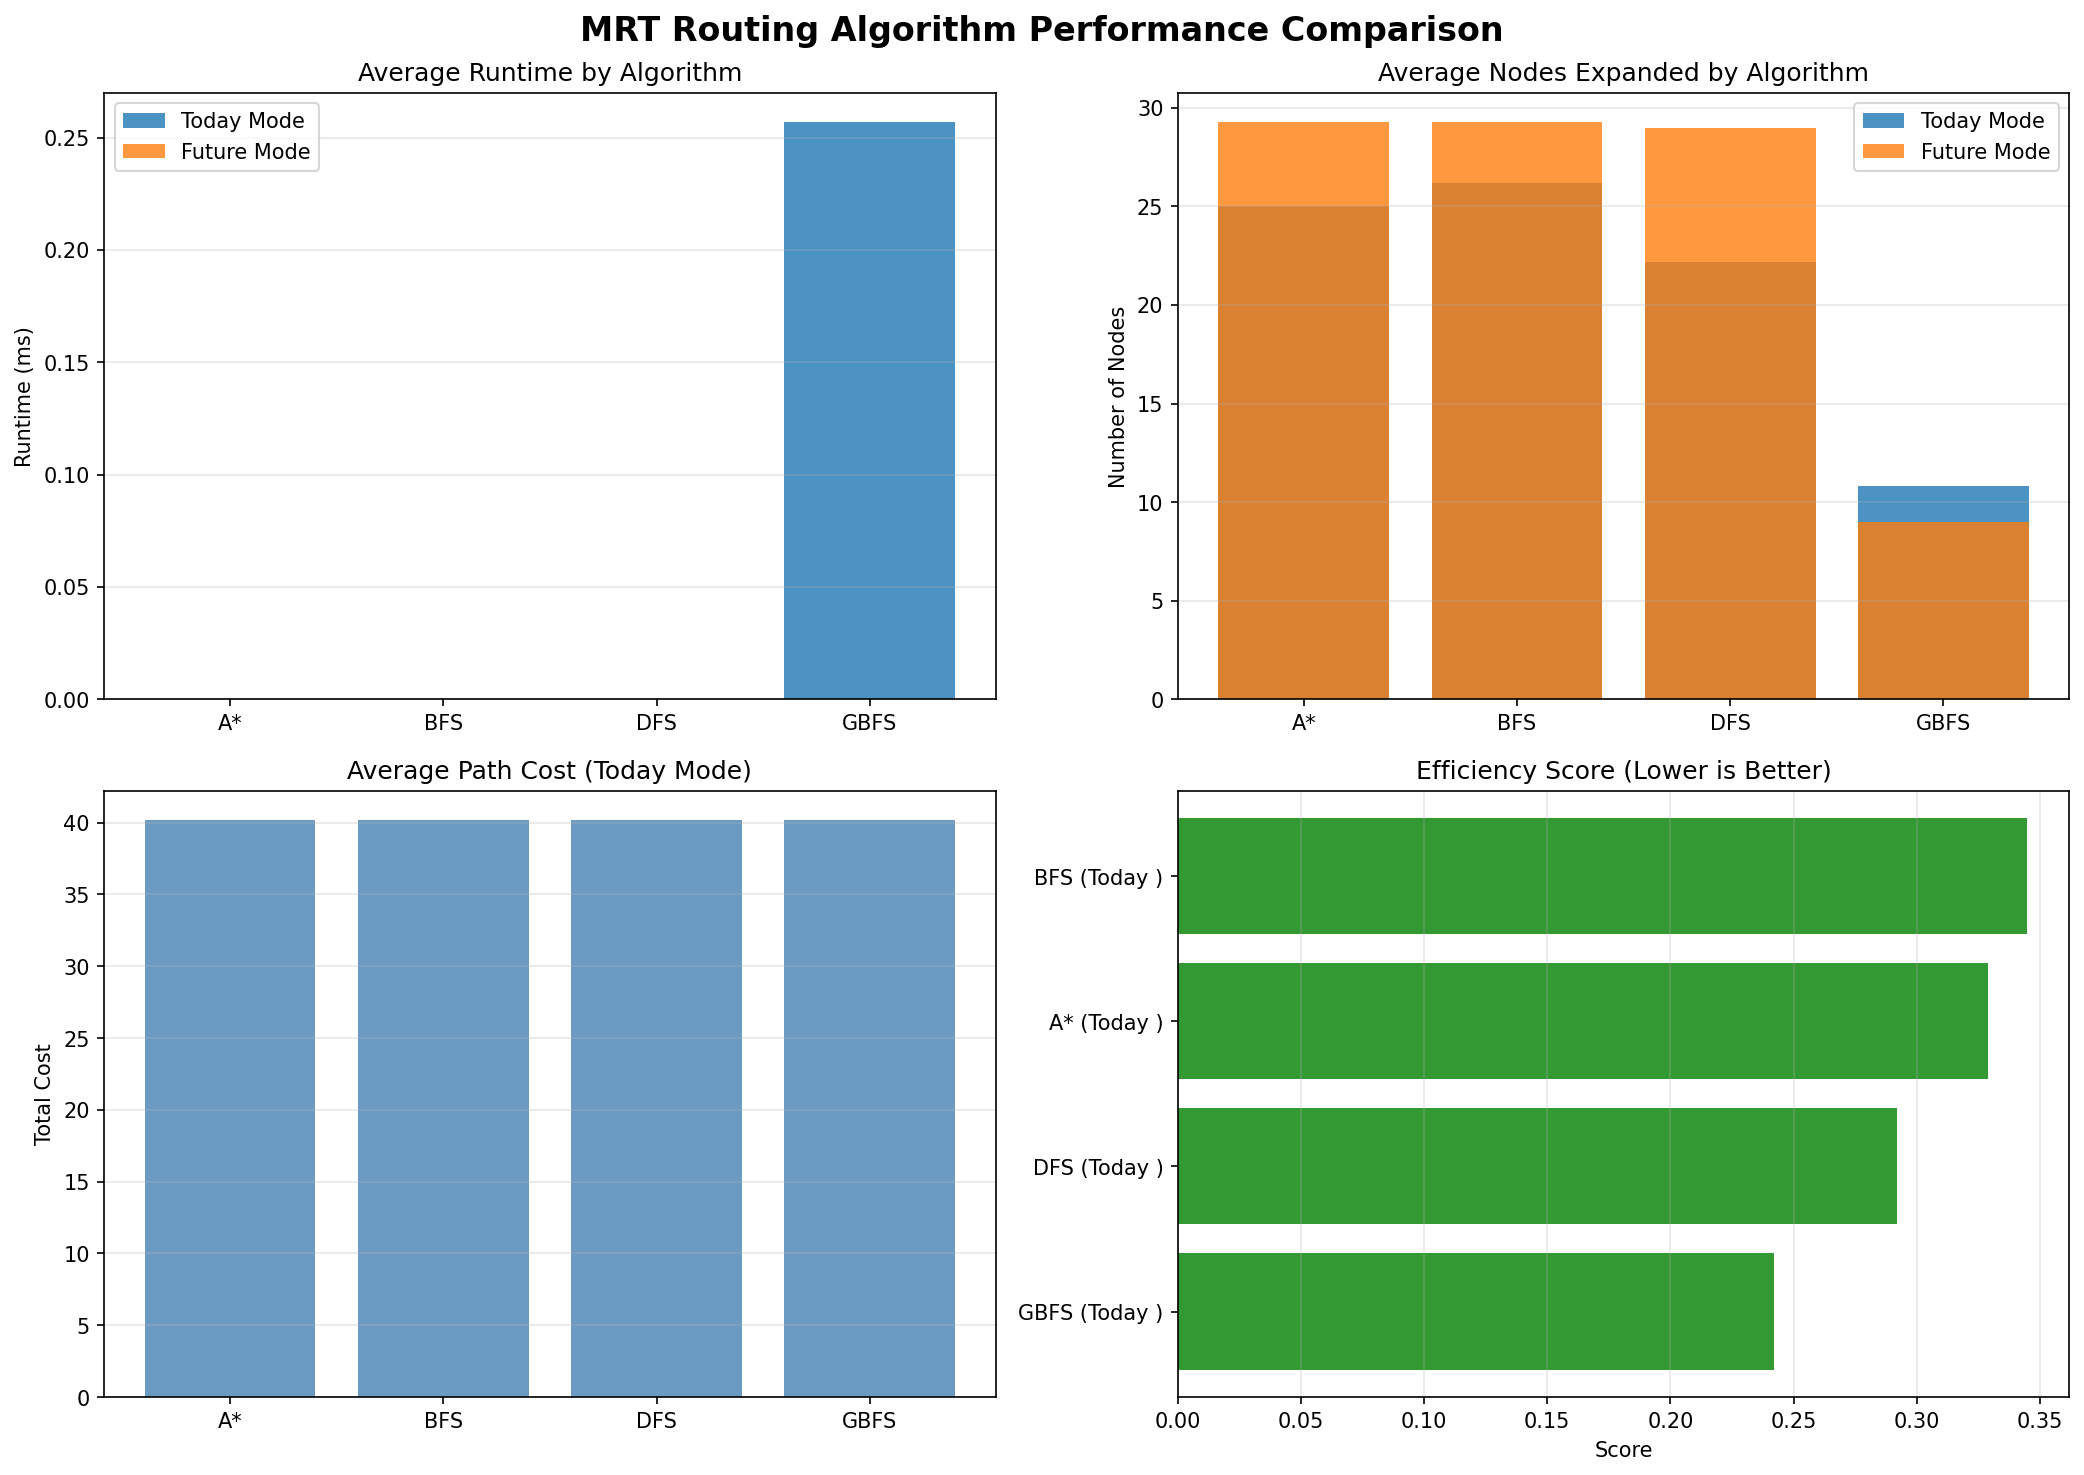
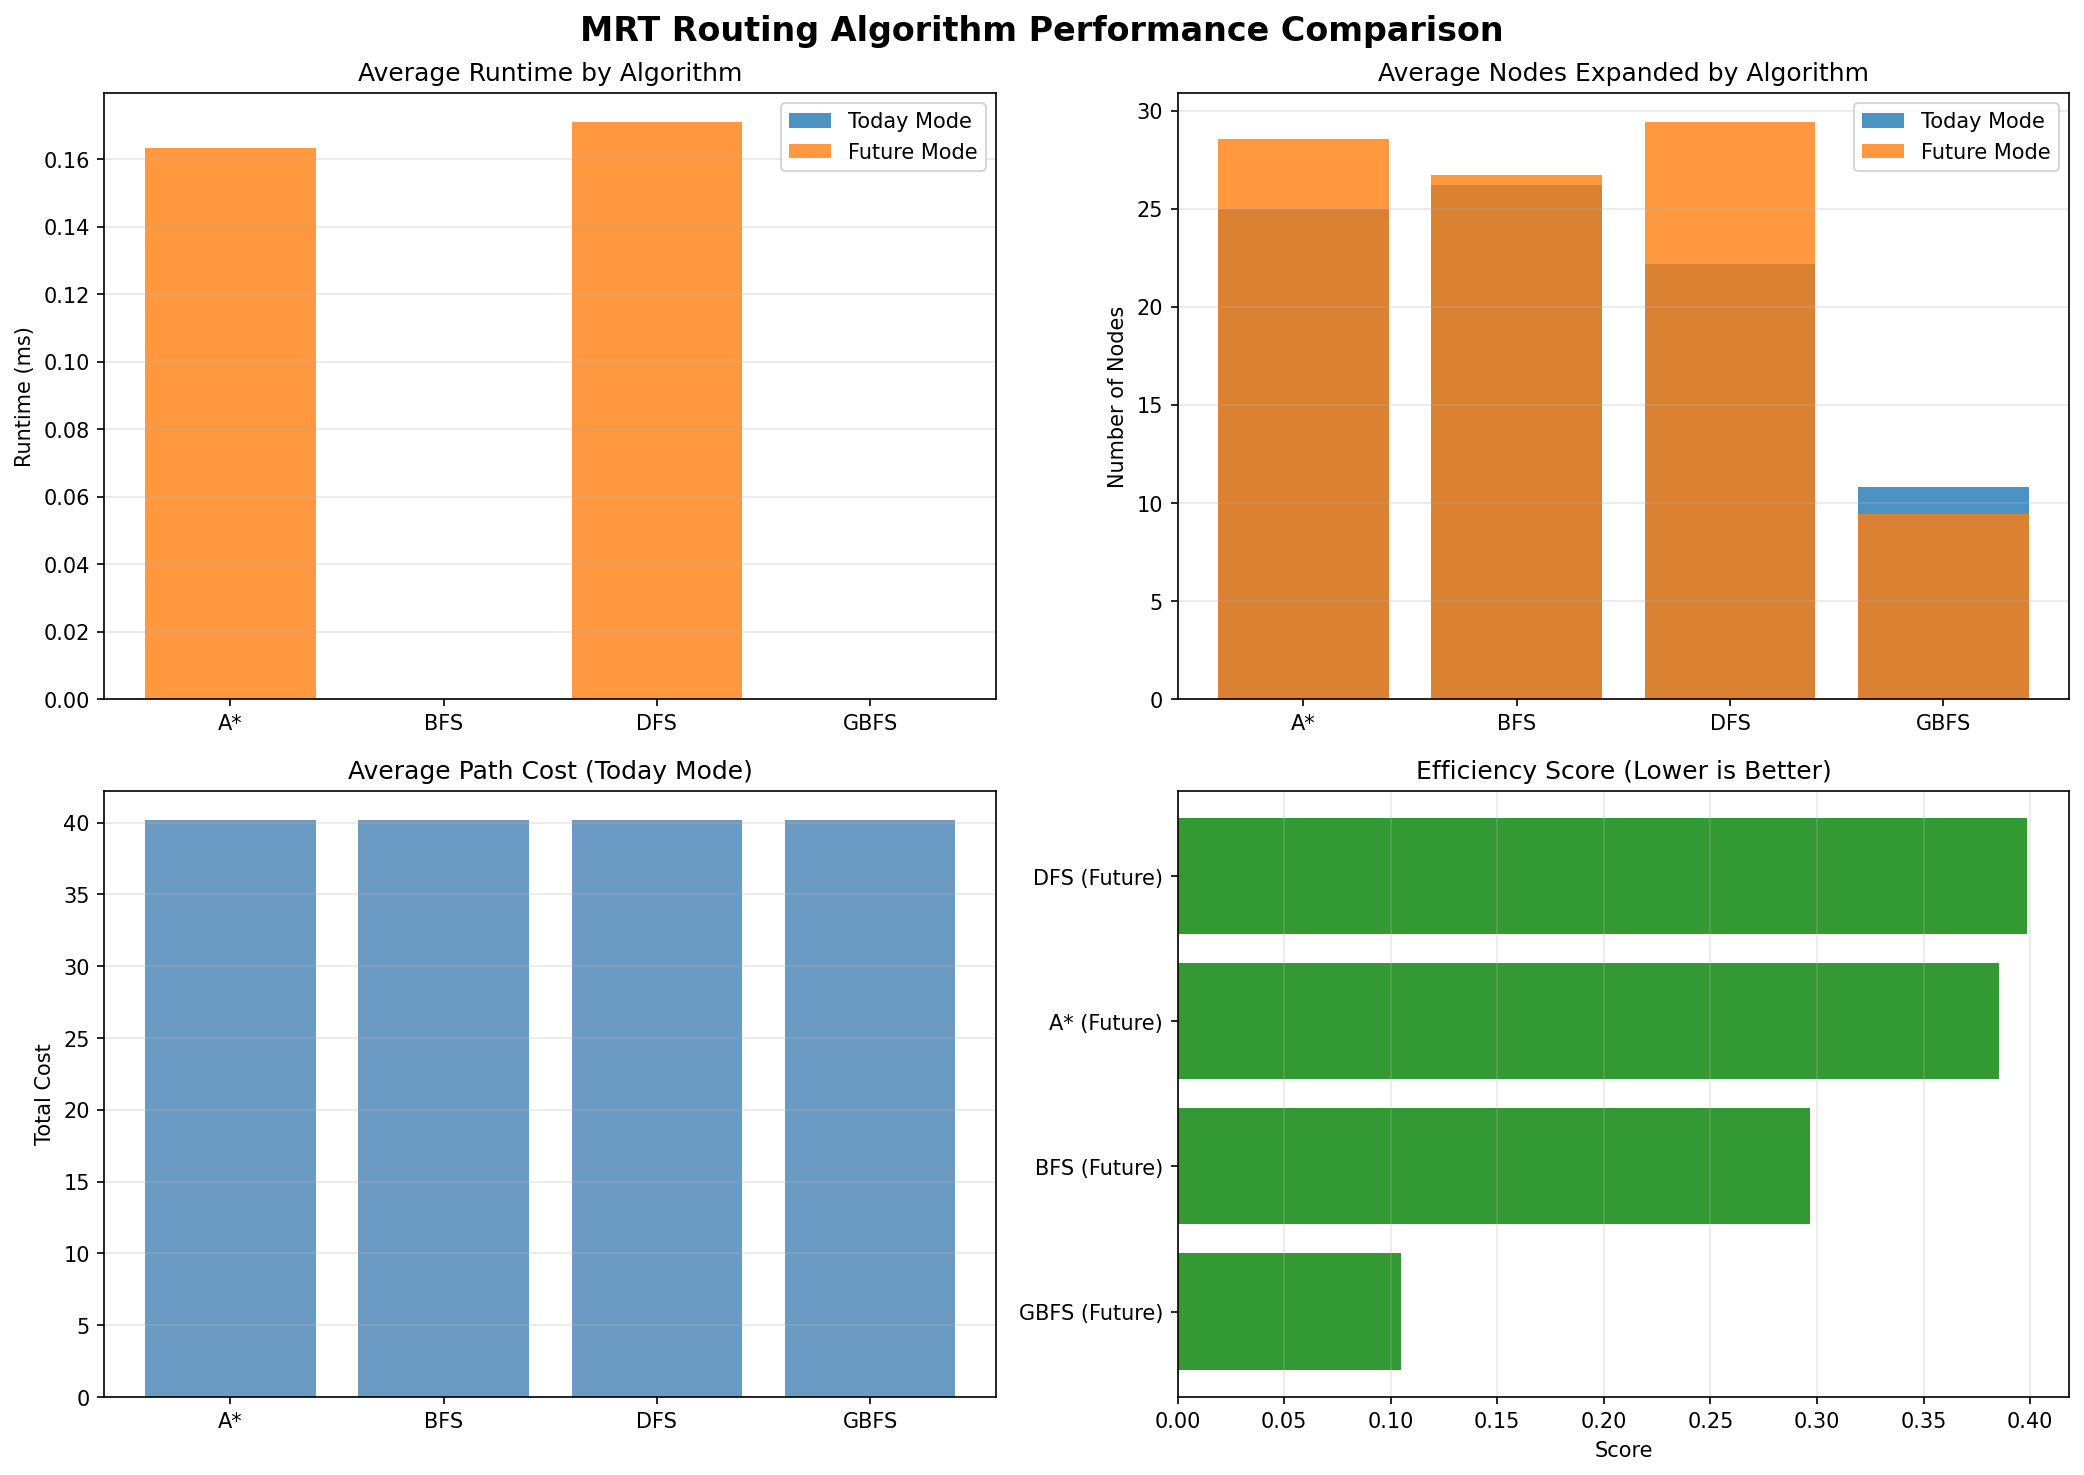
Fixed routing

diff --git a/routing.py b/routing.py
@@ -253,30 +253,53 @@ def build_today_mode():
 def build_future_mode():
     """
     Build Future Mode network with TELe and CRL extensions.
-    Incorporates:
-    - TELe: Sungei Bedok → T5 → Tanah Merah (converted from EWL)
-    - CRL extension to T5
-    - Conversion of Tanah Merah–Expo–Changi Airport to TEL systems
+    
+    Key Changes from Today Mode (per LTA July 2025 announcement):
+    1. TELe Extension: New 14-km line from Sungei Bedok → T5 → Tanah Merah
+    2. EWL-to-TEL Conversion: Tanah Merah–Expo–Changi Airport stations converted to TEL systems
+    3. CRL Extension: 5.8-km extension from Punggol Digital District to T5
+    4. New T5 Interchange: TE32/CR1 connecting TEL and CRL
+    
+    Network Changes:
+    - Old EWL airport branch (Changi Airport → Expo → Tanah Merah) REMOVED from EWL
+    - Same stations now operated under TEL system with updated connections
+    - T5 becomes major interchange hub connecting TEL, CRL, and airport access
     """
     g = build_today_mode()
-
-    # New stations for TEL/CRL
-    g.add_station("Changi Terminal 5", 11, 2)
-    g.add_station("Sungei Bedok", 9, 1)
-    g.add_station("Bedok", 9.5, 2)
-    g.add_station("Punggol Digital District", 11, 7)  # CRL extension
-
-    # TEL Extension (Sungei Bedok → T5 → Tanah Merah conversion)
-    g.add_connection("Sungei Bedok", "Bedok", 3)
-    g.add_connection("Bedok", "Changi Terminal 5", 4)
-    g.add_connection("Changi Terminal 5", "Expo", 5, transfer=True)  # TEL connection
-    g.add_connection("Expo", "Tanah Merah", 4)  # Now part of TEL
     
-    # Changi Airport to T5 (converted to TEL)
-    g.add_connection("Changi Airport", "Changi Terminal 5", 4)
+    # ==== STEP 1: REMOVE OLD EWL AIRPORT BRANCH ====
+    # These connections will be replaced by TEL system
+    # Remove: Changi Airport ↔ Expo
+    g.edges["Changi Airport"] = [e for e in g.edges["Changi Airport"] if e[0] != "Expo"]
+    g.edges["Expo"] = [e for e in g.edges["Expo"] if e[0] != "Changi Airport"]
     
-    # CRL Extension to T5
+    # Remove: Expo ↔ Tanah Merah (old EWL connection)
+    # Note: We keep other Expo connections, only remove the old EWL link to Tanah Merah
+    g.edges["Expo"] = [e for e in g.edges["Expo"] if e[0] != "Tanah Merah"]
+    g.edges["Tanah Merah"] = [e for e in g.edges["Tanah Merah"] if e[0] != "Expo"]
+
+    # ==== STEP 2: ADD NEW TEL/CRL STATIONS ====
+    g.add_station("Changi Terminal 5", 11, 2)      # New TE32/CR1 interchange
+    g.add_station("Sungei Bedok", 9, 1)            # TEL extension start
+    g.add_station("Bedok South", 9.5, 2)           # Intermediate TEL station
+    g.add_station("Punggol Digital District", 8, 8)  # CRL extension point
+
+    # ==== STEP 3: BUILD TEL EXTENSION (SUNGEI BEDOK → T5 → TANAH MERAH) ====
+    # New TEL corridor from west
+    g.add_connection("Sungei Bedok", "Bedok South", 3)
+    g.add_connection("Bedok South", "Changi Terminal 5", 4)
+    
+    # T5 to converted TEL stations (formerly EWL)
+    g.add_connection("Changi Terminal 5", "Changi Airport", 4)  # T5 ↔ Airport (now TEL)
+    g.add_connection("Changi Airport", "Expo", 5, crowded=True)  # Now part of TEL system
+    g.add_connection("Expo", "Tanah Merah", 4)  # Completes TEL conversion
+    
+    # ==== STEP 4: ADD CRL EXTENSION TO T5 ====
     g.add_connection("Punggol Digital District", "Changi Terminal 5", 8, transfer=True)
+    
+    # ==== STEP 5: OPTIONAL INTEGRATION CONNECTIONS ====
+    # Better connectivity from T5 to existing network
+    g.add_connection("Changi Terminal 5", "Tampines", 6, transfer=True)  # Direct access to EWL
 
     return g
 
